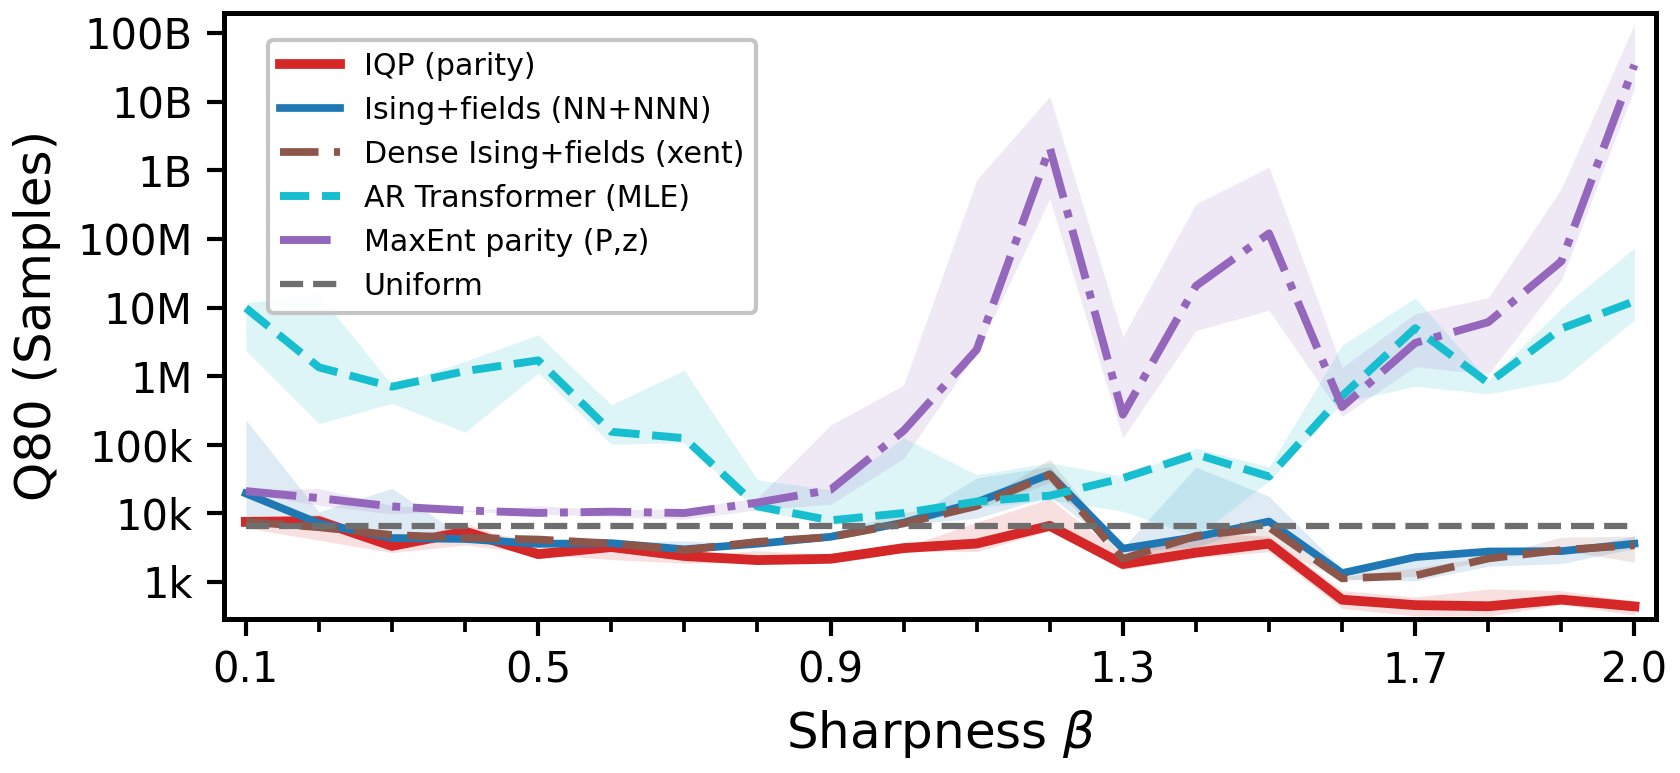
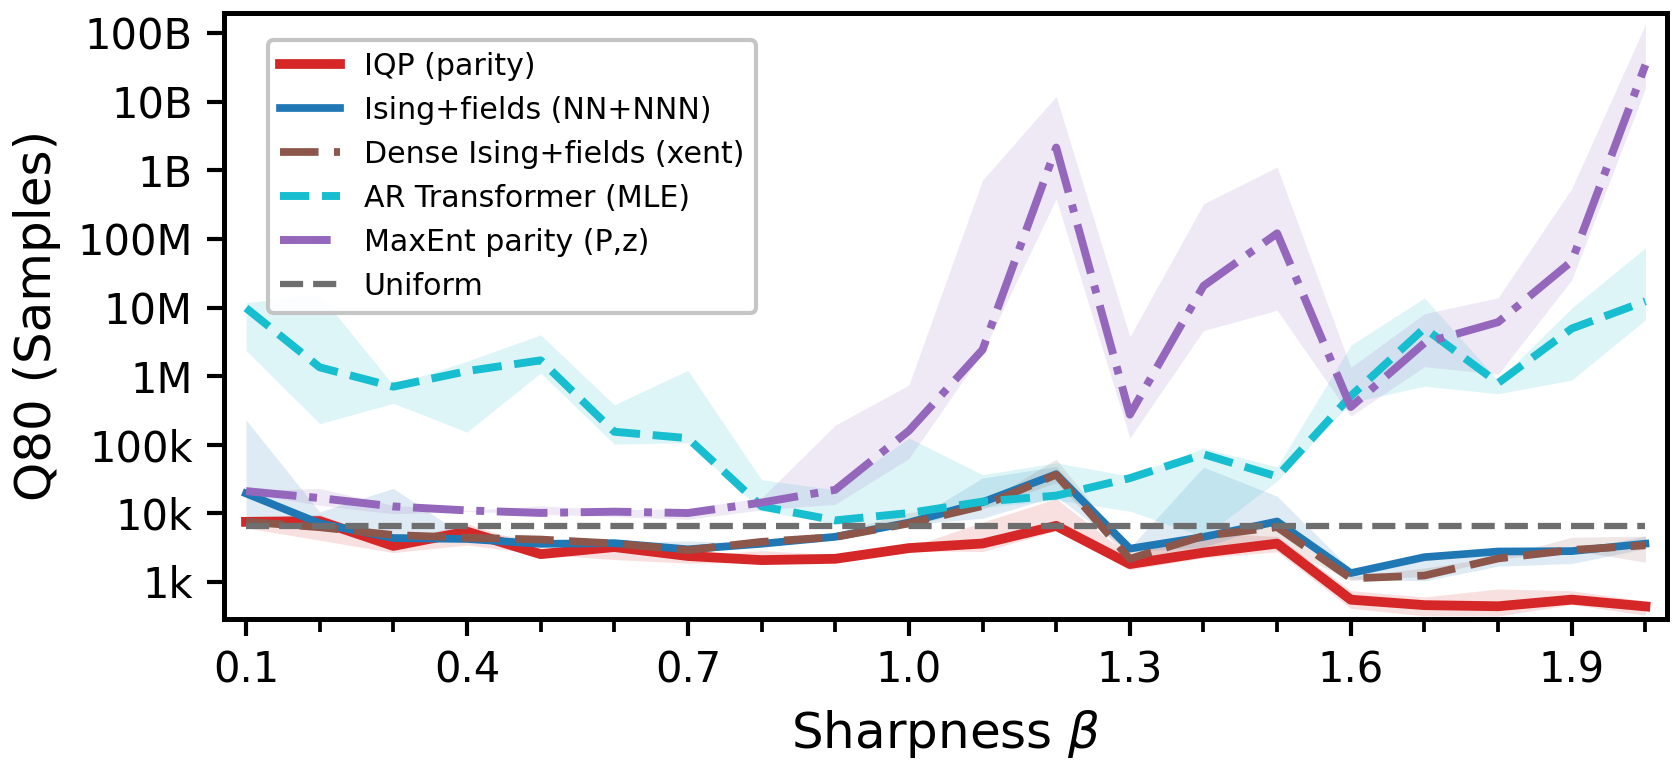
Use uniform 0.1-1.9 fig6 x ticks

diff --git a/experiments/analysis/plot_fig6_beta_q80_summary.py b/experiments/analysis/plot_fig6_beta_q80_summary.py
@@ -35,7 +35,7 @@ SEED_TRACE_LW = 0.95
 BAND_ALPHA = 0.14
 MIN_LABELED_LOG_TICK = 1_000.0
 MAX_LABELED_X_TICKS = 10
-X_LABEL_EVERY_N_BETAS = 4
+X_LABEL_EVERY_N_BETAS = 3
 
 TARGET_COLOR = "#1C1C1C"
 UNIFORM_KEY = "uniform_random"
@@ -177,15 +177,10 @@ def _major_beta_ticks(betas: Sequence[float]) -> List[float]:
         return beta_vals
 
     step = max(2, int(X_LABEL_EVERY_N_BETAS))
-    major = [beta_vals[idx] for idx in range(0, len(beta_vals), step)]
-    appended_last = False
-    if not math.isclose(float(major[-1]), float(beta_vals[-1]), rel_tol=0.0, abs_tol=1e-12):
-        major.append(float(beta_vals[-1]))
-        appended_last = True
-    if appended_last and len(major) >= 2 and len(beta_vals) >= 2:
-        beta_step = float(np.median(np.diff(np.asarray(beta_vals, dtype=np.float64))))
-        if (major[-1] - major[-2]) <= 1.05 * beta_step:
-            major.pop(-2)
+    # Keep dense beta sweeps on a strict modulo grid; the final off-grid beta stays as a minor tick.
+    major = [beta_vals[idx] for idx in range(0, len(beta_vals) - 1, step)]
+    if not major:
+        major = [beta_vals[0]]
     return major
 
 

diff --git a/outputs/analysis/ARTIFACT_MANIFEST.md b/outputs/analysis/ARTIFACT_MANIFEST.md
@@ -1,6 +1,6 @@
 # Artifact Manifest
 
-Generated: 2026-03-11 12:50:07 UTC
+Generated: 2026-03-11 13:17:40 UTC
 
 This manifest records SHA-256 checksums and file sizes for all files in `outputs/final_plots` (excluding manifest files).
 
@@ -29,8 +29,8 @@ This manifest records SHA-256 checksums and file sizes for all files in `outputs
[10 lines of base64/hex data omitted]
